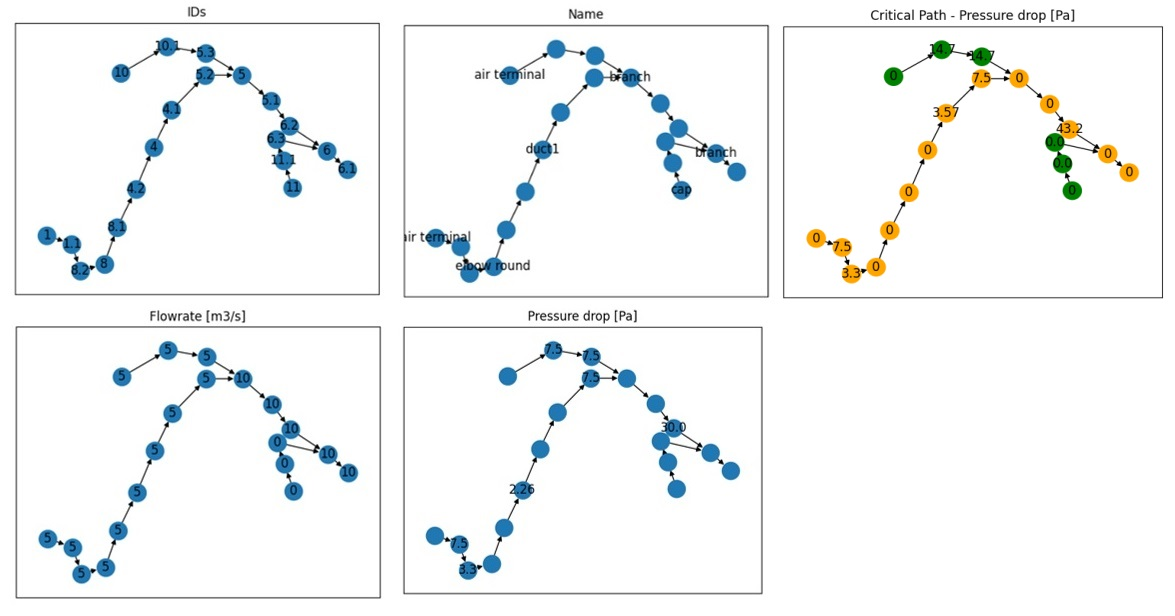
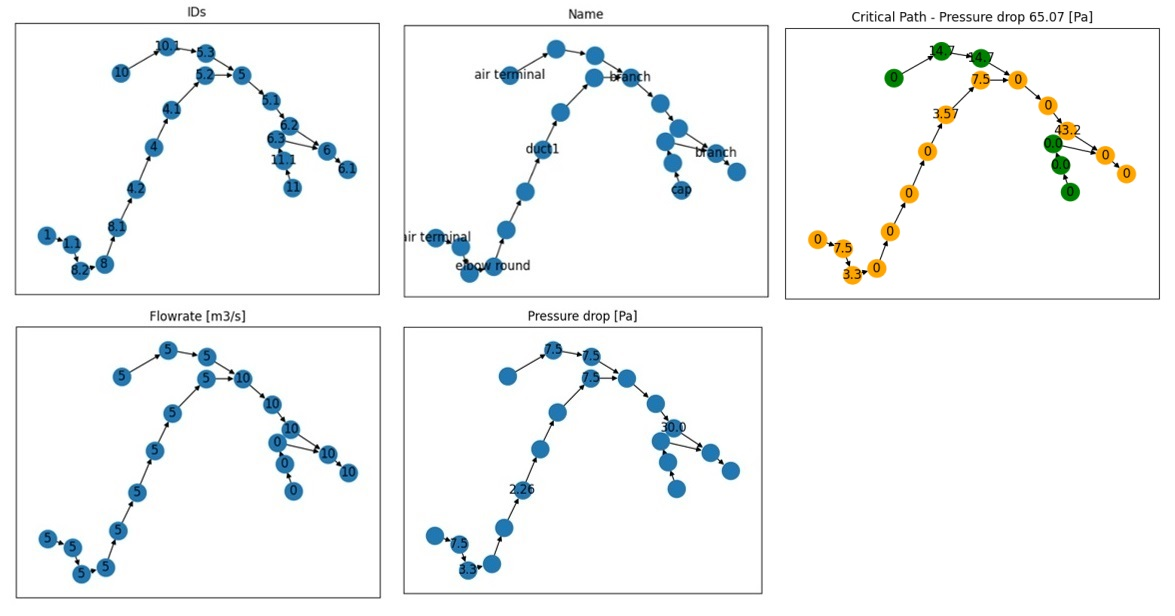
calculate total pressure drop on critical path

diff --git a/pyduct/network.py b/pyduct/network.py
@@ -30,7 +30,7 @@ class Ductwork:
         if connectors_count > 1:
             edges = [(f"{id}.{x+1}", id) for x in range(1, connectors_count)]
             self.graph.add_edges_from(edges)
-        else: 
+        else:
             self.graph.nodes[id]["flowrate"] = obj.connectors[0].flowrate
 
     def pass_attribute_from_graph_to_connectors(self, attribute):
@@ -53,8 +53,8 @@ class Ductwork:
         # Propagate flowrate to successors
         for node in nx.topological_sort(G):
             for successor in G.successors(node):
-                G.nodes[successor]['flowrate'] += G.nodes[node]['flowrate']
-        
+                G.nodes[successor]["flowrate"] += G.nodes[node]["flowrate"]
+
         # Pass flowrate attribute from graph to connectors
         self.pass_attribute_from_graph_to_connectors("flowrate")
 
@@ -69,7 +69,14 @@ class Ductwork:
             obj.calculate()
         nx.set_node_attributes(self.graph, 0, "pressure_drop")
         self.pass_attribute_from_connectors_to_graph("pressure_drop")
-    
-    def critical_path(self):
-        "Get list of nodes on the critical path"
+
+    def critical_path_nodes(self):
+        "list of nodes on the critical path"
         return nx.dag_longest_path(self.graph, weight="pressure_drop")
+
+    def critical_path_pressure_drop(self):
+        pressure_drop_values = [
+            self.graph.nodes[node]["pressure_drop"]
+            for node in self.critical_path_nodes()
+        ]
+        return sum(pressure_drop_values)

diff --git a/pyduct/examples/example3_object_defintion_and_connection_direction.py b/pyduct/examples/example3_object_defintion_and_connection_direction.py
@@ -1,6 +1,6 @@
 from pyduct.ducts import RigidDuct, RigidDuctType
 from pyduct.fitting_types import elbow_round
-from pyduct.fittings import OneWayFitting, TwoWayFitting, ThreeWayFitting 
+from pyduct.fittings import OneWayFitting, TwoWayFitting, ThreeWayFitting
 from pyduct.network import Ductwork
 import networkx as nx
 import matplotlib.pyplot as plt
@@ -20,6 +20,7 @@ duct1 = RigidDuct(name="duct1", duct_type=duct_type1, length=10)
 elbow_type = elbow_round(bend_radius=1, diameter=1, angle=90)
 elbow = TwoWayFitting(name="elbow round", type=elbow_type)
 
+# branch_type1= XYZ
 branch = ThreeWayFitting("branch")
 
 # add objects to ductwork
@@ -43,17 +44,18 @@ connections = [
 G.add_edges_from(connections)
 
 
-
 if __name__ == "__main__":
     plt.figure(1)
     plt.title("IDs")
     nx.draw_networkx(G, pos=nx.spring_layout(G, seed=0, center=(0, 0)))
 
     plt.figure(2)
-    #name_labels = nx.get_node_attributes(G, name="name")
+    # name_labels = nx.get_node_attributes(G, name="name")
     name_labels = {id: obj.name for (id, obj) in sup1.objects.items()}
     plt.title("Name")
 
-    #self.graph.add_node(id, name=obj.name)
-    nx.draw_networkx(G, labels=name_labels, pos=nx.spring_layout(G, seed=0, center=(0, 0)))
+    # self.graph.add_node(id, name=obj.name)
+    nx.draw_networkx(
+        G, labels=name_labels, pos=nx.spring_layout(G, seed=0, center=(0, 0))
+    )
     plt.show()

diff --git a/pyduct/fittings.py b/pyduct/fittings.py
@@ -35,13 +35,13 @@ class TwoWayFitting:
     def calculate(self) -> None:
         c1 = self.connectors[0]
         c2 = self.connectors[1]
-        
+
         if c2.flowrate >= 0:
             c2.area = 1
             v2 = c2.flowrate / c2.area
             c2.dzeta = self.type.dzeta
             c2.pressure_drop = friction.local_pressure_drop(c2.dzeta, v2)
-        
+
         c1.pressure_drop = 0
 
 
@@ -62,21 +62,19 @@ class ThreeWayFitting:
         c3 = self.connectors[2]
 
         if c2.flowrate >= 0:
-            c2.area = 1 #placeholder
+            c2.area = 1  # placeholder
             v2 = c2.flowrate / c2.area
-            c2.dzeta = 0.5 #placeholder
+            c2.dzeta = 0.5  # placeholder
             c2.pressure_drop = friction.local_pressure_drop(c2.dzeta, v2)
 
         if c3.flowrate >= 0:
-            c3.area = 1 #placeholder
+            c3.area = 1  # placeholder
             v3 = c3.flowrate / c3.area
-            c3.dzeta = 0.5 #placeholder
+            c3.dzeta = 0.5  # placeholder
             c3.pressure_drop = friction.local_pressure_drop(c3.dzeta, v3)
-        
-        #c1.flowrate = c2.flowrate + c3.flowrate
-        c1.area = 1 #placeholder
+
+        # c1.flowrate = c2.flowrate + c3.flowrate
+        c1.area = 1  # placeholder
         v1 = c1.flowrate / c1.area
         c1.dzeta = 0
         c1.pressure_drop = 0
-        
-

diff --git a/pyduct/examples/example1B_linear_pressure_drop_with_classes.py b/pyduct/examples/example1B_linear_pressure_drop_with_classes.py
@@ -2,7 +2,13 @@ from pyduct.ducts import RigidDuctType, RigidDuct
 from pyduct.connectors import Connector
 
 # define objects
-duct_type1 = RigidDuctType(name="ductype1", shape="rectangular", absolute_roughness=0.00009, height=1.0, width=1.0)
+duct_type1 = RigidDuctType(
+    name="ductype1",
+    shape="rectangular",
+    absolute_roughness=0.00009,
+    height=1.0,
+    width=1.0,
+)
 duct1 = RigidDuct(name="duct1", duct_type=duct_type1, length=10, flowrate=1)
 duct1.connectors = [Connector(id="1", flowrate=5.0), Connector(id="2", flowrate=5.0)]
 
@@ -10,10 +16,18 @@ duct1.connectors = [Connector(id="1", flowrate=5.0), Connector(id="2", flowrate=
 duct_type1.calculate()
 duct1.calculate()
 
-for argument in ['name', "cross_sectional_area", "hydraulic_diameter"]:
+for argument in ["name", "cross_sectional_area", "hydraulic_diameter"]:
     value = str(duct_type1.__getattribute__(argument))
     print(f"{argument}: {value}")
 
-for argument in ['name', 'flowrate', 'velocity', 'roughness_correction_factor', 'length', 'pressure_drop_per_meter', 'linear_pressure_drop']:
+for argument in [
+    "name",
+    "flowrate",
+    "velocity",
+    "roughness_correction_factor",
+    "length",
+    "pressure_drop_per_meter",
+    "linear_pressure_drop",
+]:
     value = str(duct1.__getattribute__(argument))
     print(f"{argument}: {value}")

diff --git a/pyduct/examples/example8_find_crititcal_path.py b/pyduct/examples/example8_find_crititcal_path.py
@@ -1,0 +1,28 @@
+from example7_calculate_dp import sup1, G
+import networkx as nx
+import matplotlib.pyplot as plt
+
+
+nodes_on_critical_path = sup1.critical_path_nodes()
+# print(nodes_on_critical_path)
+critical_path_dp = round(sup1.critical_path_pressure_drop(), 2)
+
+if __name__ == "__main__":
+    color_map = []
+    for node in G:
+        if node in nodes_on_critical_path:
+            color_map.append("orange")
+        else:
+            color_map.append("green")
+
+    plt.figure(5)
+    plt.title("Critical Path - Pressure drop {0} [Pa]".format(critical_path_dp))
+    dp_labels = nx.get_node_attributes(G, name="pressure_drop")
+    dp_labels = {key: round(value, 2) for key, value in dp_labels.items()}
+    nx.draw_networkx(
+        G,
+        node_color=color_map,
+        labels=dp_labels,
+        pos=nx.spring_layout(G, seed=0, center=(0, 0)),
+    )
+    plt.show()

diff --git a/pyduct/examples/example4_pass_flowrates.py b/pyduct/examples/example4_pass_flowrates.py
@@ -1,19 +1,17 @@
 import networkx as nx
 from example3_object_defintion_and_connection_direction import sup1, G
 
-
-terminals = {id for id, edges in G.degree() if edges == 1 and '.' not in id}
-subgraph = G.copy()
-subgraph.remove_nodes_from(terminals)
-
 sup1.pass_flowrate_through_graph()
 
 if __name__ == "__main__":
     import matplotlib.pyplot as plt
+
     flowrate_labels = nx.get_node_attributes(G, name="flowrate")
     plt.figure(3)
     plt.title("Flowrate [m3/s]")
-    nx.draw_networkx(G, labels=flowrate_labels, pos=nx.spring_layout(G, seed=0, center=(0, 0)))
+    nx.draw_networkx(
+        G, labels=flowrate_labels, pos=nx.spring_layout(G, seed=0, center=(0, 0))
+    )
     plt.show()
 
     # print(G.nodes(data=True))

diff --git a/pyduct/examples/example7_calculate_dp.py b/pyduct/examples/example7_calculate_dp.py
@@ -13,9 +13,10 @@ if __name__ == "__main__":
 
     plt.figure(4)
     plt.title("Pressure drop [Pa]")
-    
-    
-    #dp_labels = {k: v if v is not None else 0 for k, v in dp_labels.items()}
+
+    # dp_labels = {k: v if v is not None else 0 for k, v in dp_labels.items()}
     dp_labels = {key: round(value, 2) for key, value in dp_labels.items()}
-    nx.draw_networkx(G, labels=dp_labels, pos=nx.spring_layout(G, seed=0, center=(0, 0)))
+    nx.draw_networkx(
+        G, labels=dp_labels, pos=nx.spring_layout(G, seed=0, center=(0, 0))
+    )
     plt.show()

diff --git a/pyduct/friction.py b/pyduct/friction.py
@@ -10,6 +10,7 @@ mi = PropsSI("V", "T", std_temp, "P", std_pressure, "Air")
 print(rho, mi)
 """
 
+
 def reynolds(v, d_h, vi=1.516e-5):
     """Equation for calculating Reynolds number, where
     v - flow speed,
@@ -51,8 +52,7 @@ def friction_coefficient(Re, E):
         return 64 / Re
     return (
         1.613
-        * (log(0.234 * E**1.1007 - 60.525 / Re**1.1105 + 56.291 / Re**1.0712))
-        ** -2
+        * (log(0.234 * E**1.1007 - 60.525 / Re**1.1105 + 56.291 / Re**1.0712)) ** -2
     )
 
 

diff --git a/pyduct/examples/check_exec_time.py b/pyduct/examples/check_exec_time.py
@@ -2,8 +2,8 @@ import time
 
 startTime = time.time()
 
-from pyduct.examples.example7_calculate_dp import dp_labels
-print(dp_labels)
+import pyduct.examples.example8_find_crititcal_path
+
 x = time.time() - startTime
 
-print ('The script took {0} second.'.format(round(x,2)))
+print("The script took {0} second.".format(round(x, 2)))

diff --git a/pyduct/examples/example2_local_pressure_drop_with_classes.py b/pyduct/examples/example2_local_pressure_drop_with_classes.py
@@ -10,6 +10,6 @@ elbow.connectors = [Connector(id="1", flowrate=5.0), Connector(id="2", flowrate=
 # calculate object
 elbow.calculate()
 
-for argument in ['name', 'connectors', 'type']:
+for argument in ["name", "connectors", "type"]:
     value = str(elbow.__getattribute__(argument))
     print(f"{argument}: {value}")
